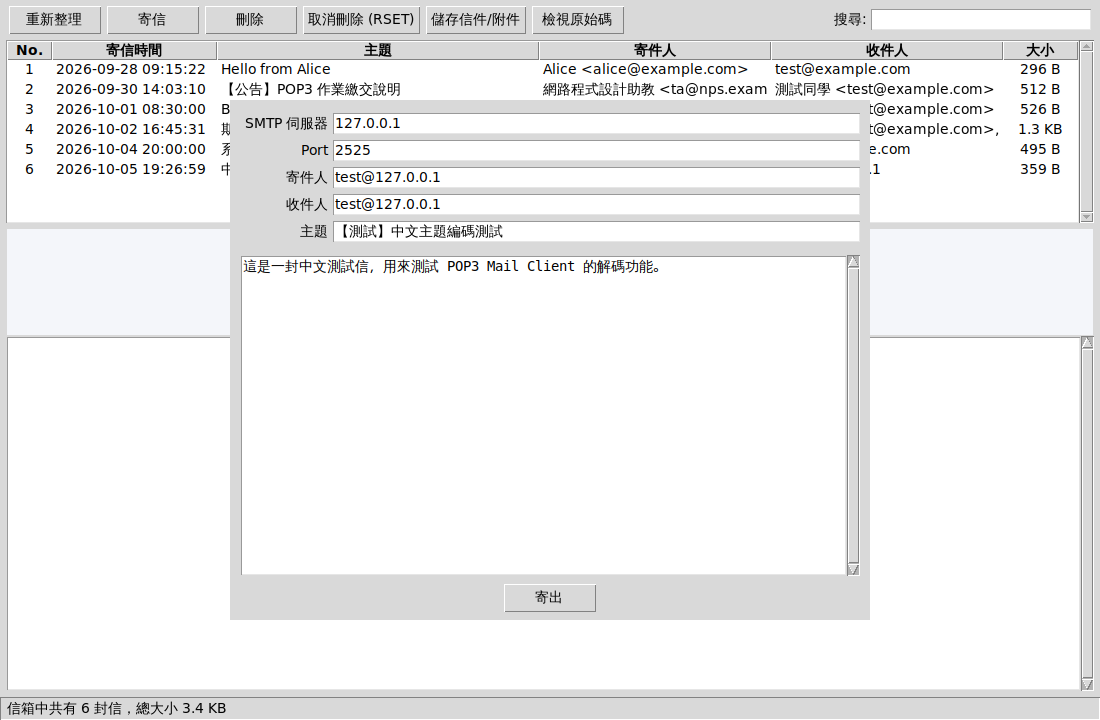
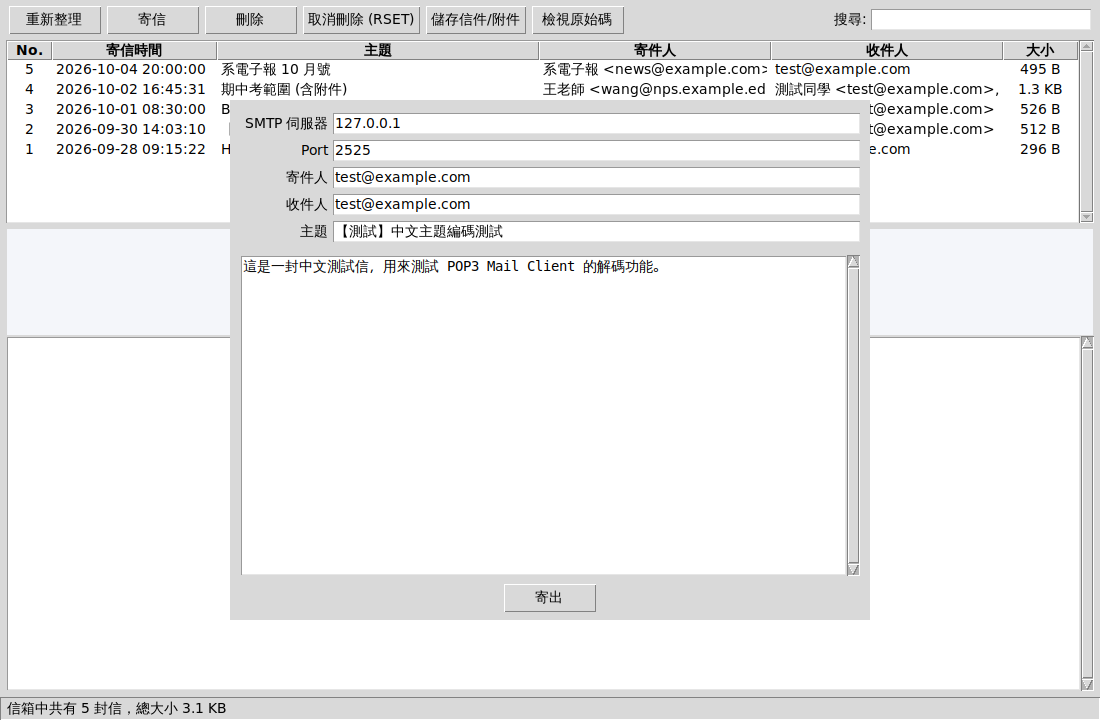
GUI: newest mail first, decode encoded addresses, infer own address
- Decode RFC 2047 encoded words inside addresses
  (=?utf-8?q?tjliu?=@ics.fcu.edu.tw -> tjliu@ics.fcu.edu.tw)
- Sort the mail list newest first by default
- Compose window takes the default address from mail already addressed
  to the user (e.g. iecs01@ics.fcu.edu.tw)

Claude-Session: https://claude.ai/code/session_01VMuU6KQbtsVyRnKSb6TvUw

diff --git a/pop3_mail_client/pop3client.py b/pop3_mail_client/pop3client.py
@@ -320,6 +320,7 @@ def format_addresses(value):
         return decode_mime_header(value)
     for name, addr in pairs:
         name = decode_mime_header(name)
+        addr = decode_mime_header(addr)      # 有些信連地址都編碼了，例如 =?utf-8?q?tjliu?=@ics.fcu.edu.tw
         if name and addr:
             out.append(f"{name} <{addr}>")
         else:
@@ -756,7 +757,7 @@ def run_gui(args):
     root = tk.Tk()
     root.title("POP3 Mail Client")
     root.geometry("1100x720")
-    state = {"box": None, "rows": [], "sort": ("num", False), "current": None, "login": None}
+    state = {"box": None, "rows": [], "sort": ("num", True), "current": None, "login": None}
 
     # ---------------- 登入畫面 ----------------
     login = ttk.Frame(root, padding=30)
@@ -977,6 +978,12 @@ def run_gui(args):
     def compose():
         host, _, _, user, _ = state["login"]
         default_addr = default_address(user, host)
+        # 從信箱裡寄給自己的信找出正確的地址 (例如 iecs01@ics.fcu.edu.tw)
+        for r in state["rows"]:
+            m = re.search(rf"\b{re.escape(user)}@[\w.-]+", r.to)
+            if m:
+                default_addr = m.group(0)
+                break
         win = tk.Toplevel(root)
         win.title("寄信 (SMTP)")
         win.geometry("640x520")
